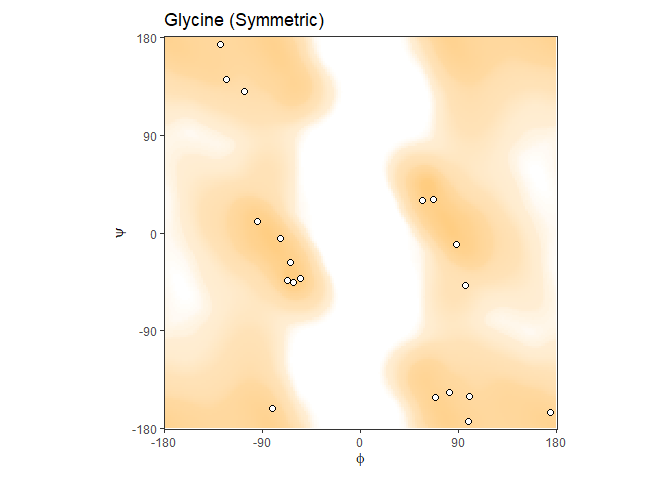
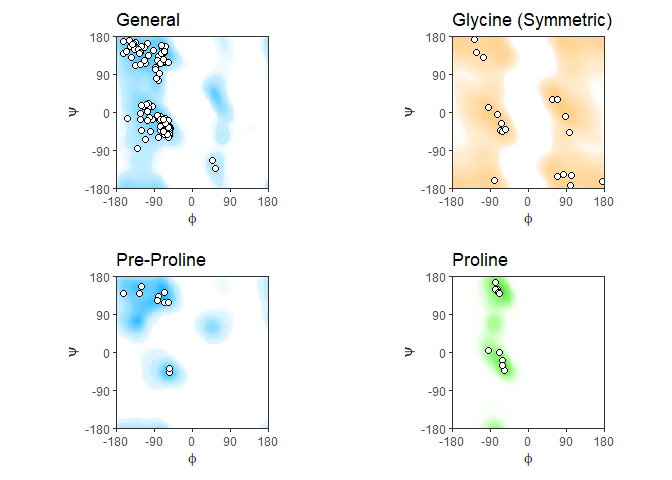
ggrama_all readme ad

diff --git a/README.md b/README.md
@@ -7,7 +7,7 @@
 <!-- badges: end -->
 
 The goal of ggrama is to make it easy to plot Ramachandran diagrams from
-a pdb file using ggplot2 graphics
+a pdb file using ggplot2 graphics.
 
 ## Installation
 
@@ -27,26 +27,21 @@ library(ggrama)
 download.file("https://files.rcsb.org/download/2ADQ.pdb1.gz",
               dest = "2ADQ.pdb1.gz")
 
-#plot the four types of Ramachandran diagrams
-ggrama::ggrama("2ADQ.pdb1.gz")
+#plot by type of Ramachandran diagrams
+ggrama::ggrama("2ADQ.pdb1.gz") #general type the default
 ```
 
 <img src="man/figures/README-example-1.png" width="100%" />
 
 ``` r
-ggrama::ggrama("2ADQ.pdb1.gz", "pre.pro")
+ggrama::ggrama("2ADQ.pdb1.gz", "pre.pro") #pre-proline, additional options are glycine and proline
 ```
 
 <img src="man/figures/README-example-2.png" width="100%" />
 
 ``` r
-ggrama::ggrama("2ADQ.pdb1.gz", "glycine")
+#or plot all four types in a grid
+ggrama_all("2ADQ.pdb1.gz")
 ```
 
 <img src="man/figures/README-example-3.png" width="100%" />
-
-``` r
-ggrama::ggrama("2ADQ.pdb1.gz", "proline")
-```
-
-<img src="man/figures/README-example-4.png" width="100%" />
